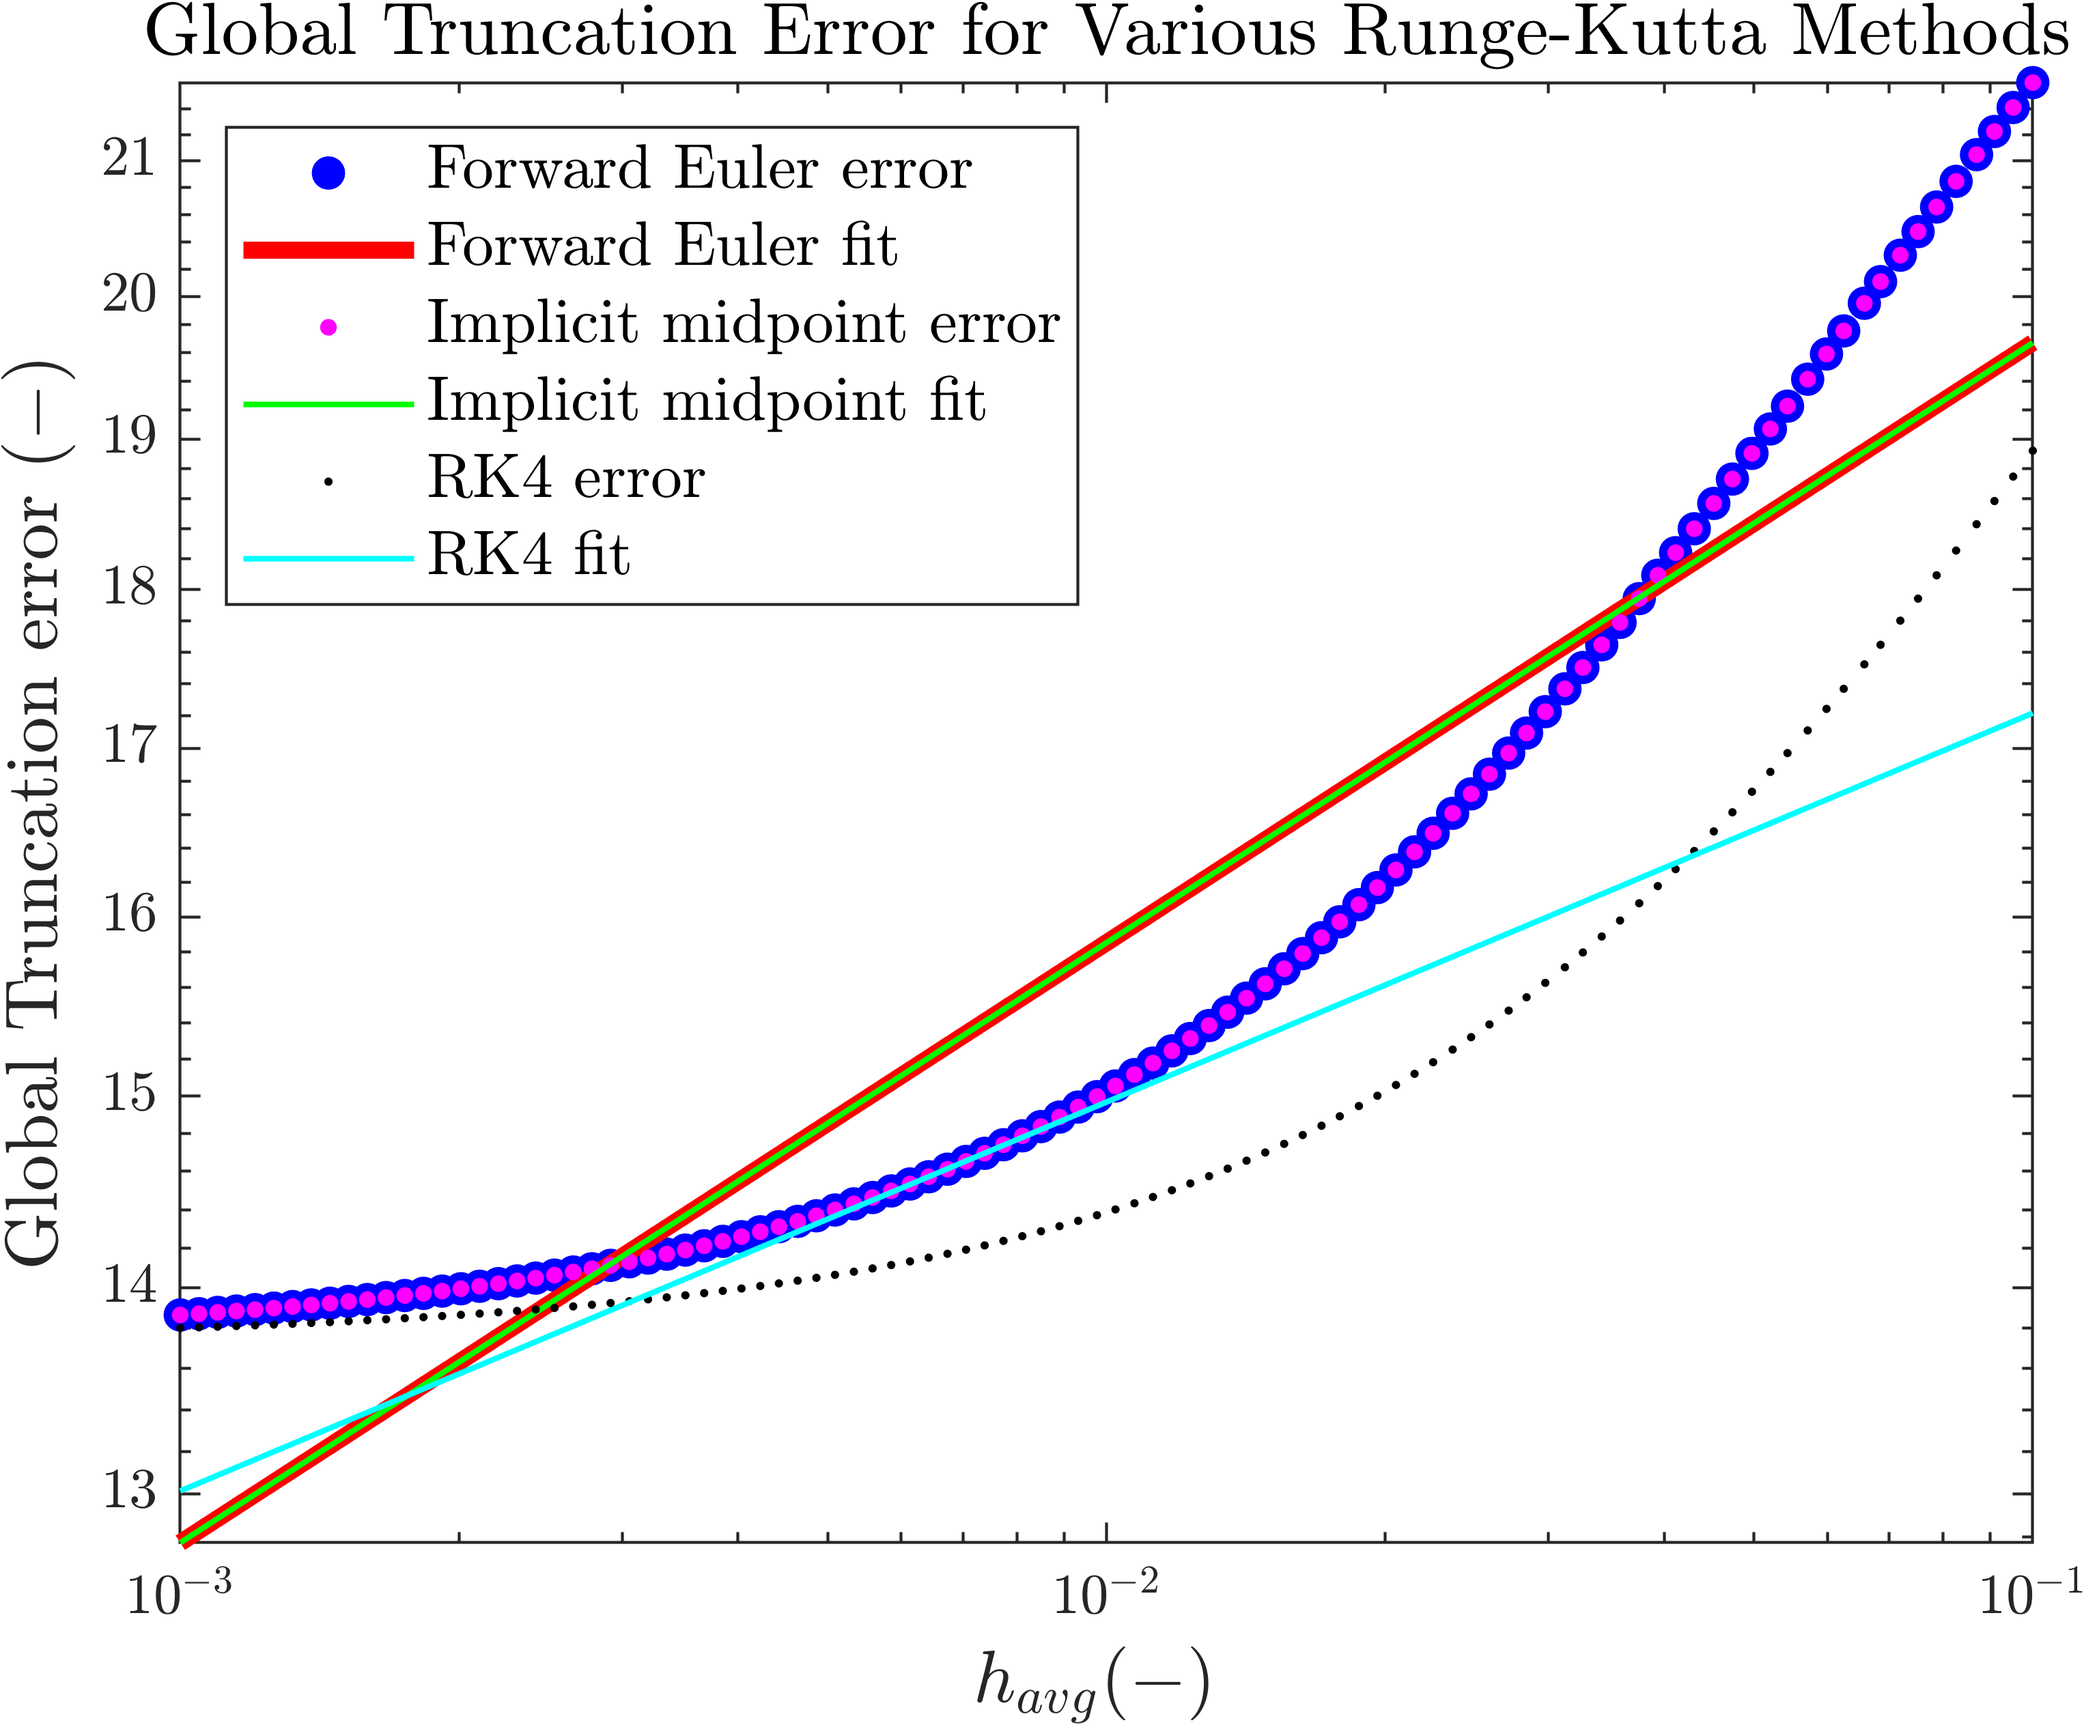
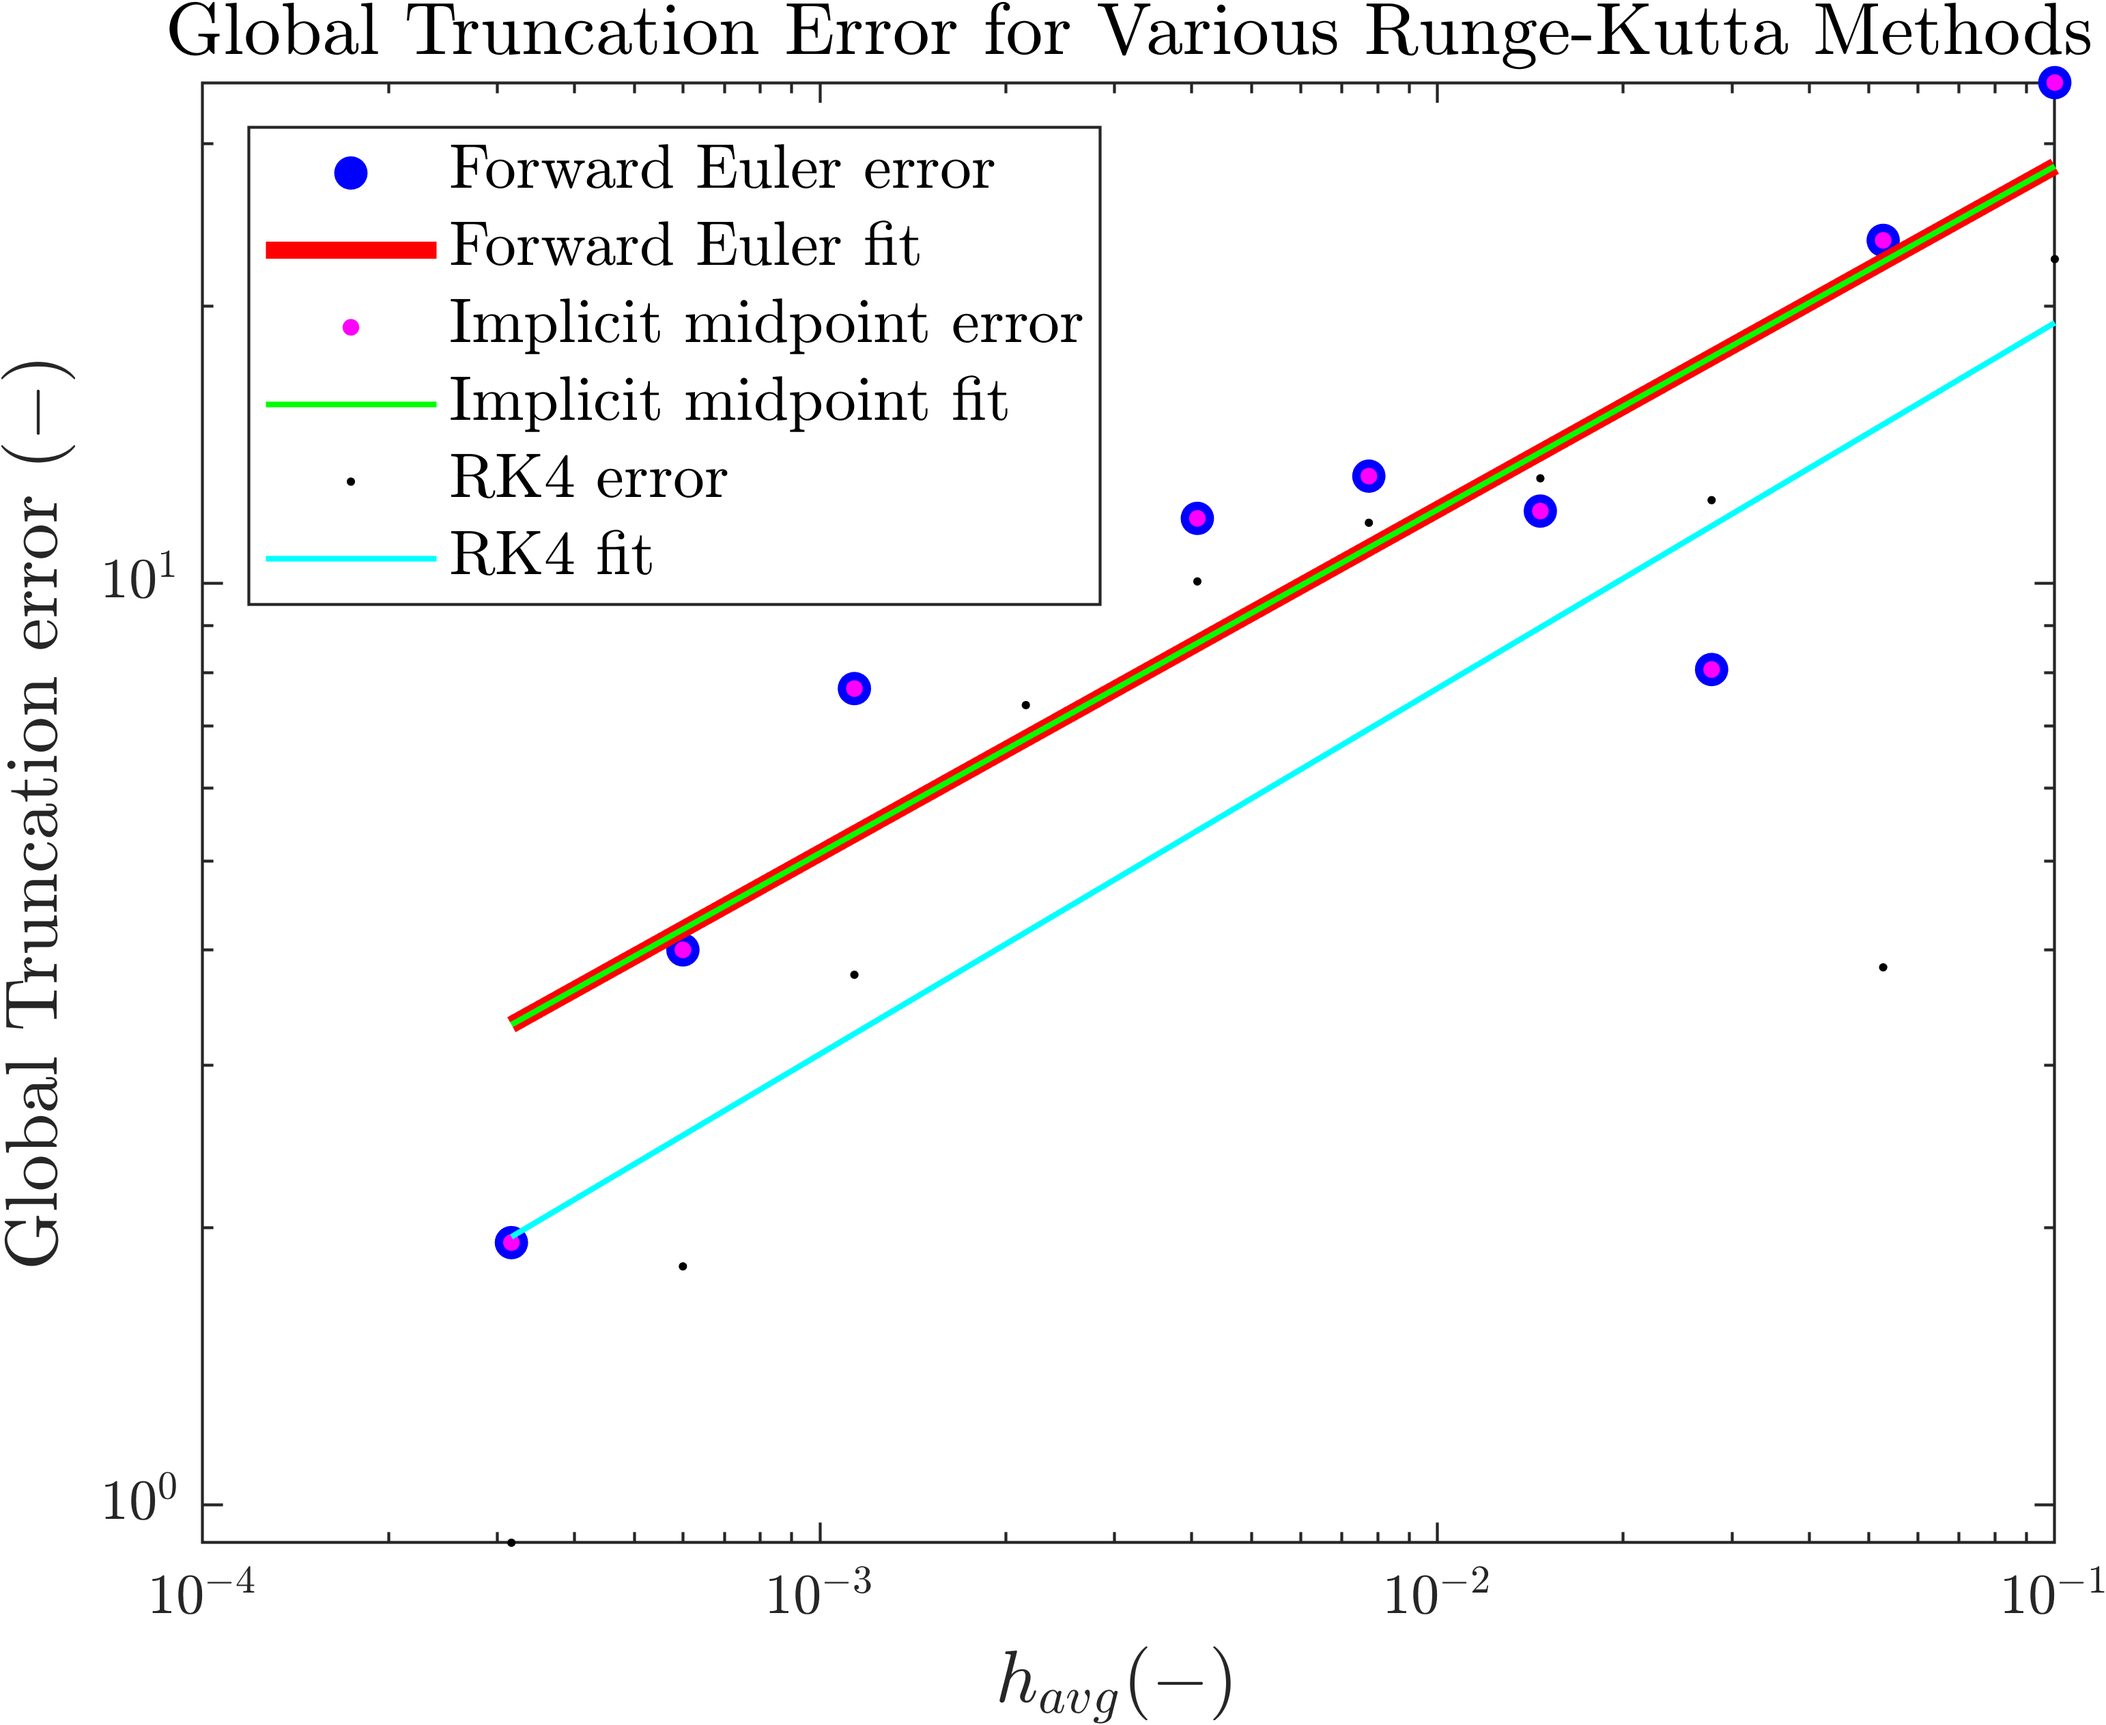
global error plot.. wrong
help me

diff --git a/error_calcs.m b/error_calcs.m
@@ -1,5 +1,11 @@
 function error_calcs()
 
+    set(groot, 'defaultTextInterpreter', 'latex');
+    set(groot, 'defaultAxesTickLabelInterpreter', 'latex');
+    set(groot, 'defaultLegendInterpreter', 'latex');
+    clf();
+    clear all;
+
     BT_fe=struct();
 
     BT_fe.A=[0];
@@ -18,7 +24,7 @@ function error_calcs()
     BT_em.B=[0;1];
     BT_em.C=[0; 0.5];
 
-    hs = logspace(-3,-1,100);
+    hs = logspace(-3.5,-1,10);
 
     global_errors_fe = zeros(size(hs));
     global_errors_em = zeros(size(hs));
@@ -28,7 +34,7 @@ function error_calcs()
     h_avg_list_em = zeros(size(hs));
     h_avg_list_rk = zeros(size(hs));
 
-    time_int = [0, 10];
+    time_int = [0, 30];
 
     orbit_params = struct();
     orbit_params.m_sun = 1;
@@ -40,7 +46,7 @@ function error_calcs()
     dydt0 = 1.5;
 
     V0 = [x0;y0;dxdt0;dydt0];
-    t_range = linspace(0,10,100);
+    t_range = linspace(0,30,100);
     V_list = compute_planetary_motion(t_range,V0,orbit_params);
     h_ref=0.005;
 
@@ -48,15 +54,15 @@ function error_calcs()
     
     for n = 1:length(hs)
         h = hs(n);
-        [g_efe,h_avgfe, evalfe] = global_error(G_rate, V_list, compute_planetary_motion(time_int(1), V0, orbit_params), time_int, h, BT_fe);
+        [g_efe,h_avgfe, evalfe] = global_error(G_rate, V_list, V0, time_int, h, BT_fe);
         global_errors_fe(n) = g_efe;
         h_avg_list_fe(n) = h_avgfe;
 
-        [g_eem,h_avgem, evalem] = global_error(G_rate, V_list, compute_planetary_motion(time_int(1), V0, orbit_params), time_int, h, BT_em);
+        [g_eem,h_avgem, evalem] = global_error(G_rate, V_list, V0, time_int, h, BT_em);
         global_errors_em(n) = g_eem;
         h_avg_list_em(n) = h_avgem;
-
-        [g_erk,h_avgrk, evalrk] = global_error(G_rate, V_list, compute_planetary_motion(time_int(1), V0, orbit_params), time_int, h, BT_rk);
+% compute_planetary_motion(time_int(1), V0, orbit_params)
+        [g_erk,h_avgrk, evalrk] = global_error(G_rate, V_list, V0, time_int, h, BT_rk);
         global_errors_rk(n) = g_erk;
         h_avg_list_rk(n) = h_avgrk;
     end

diff --git a/global_error.m b/global_error.m
@@ -7,6 +7,6 @@ function [error,h_avg, num_evals] = global_error(rate_func_in, sol_list, XA, t_r
 %     X_exact_final = sol_func(t_range(end));
 %     error = norm(X_numerical_final - X_exact_final);
 % end
-    [t_list,X_list,h_avg, num_evals] = explicit_RK_fixed_step_integration(rate_func_in,t_range,XA,href,BT);; % change explicit_midpoint_step to the other funcs when needed
-    error = norm(X_list(end,:)' - sol_list(t_range(end)));
+    [t_list,X_list,h_avg, num_evals] = explicit_RK_fixed_step_integration(rate_func_in,t_range,XA,href,BT); % change explicit_midpoint_step to the other funcs when needed
+    error = norm(X_list(end,:)' - sol_list(end,:)');
 end
